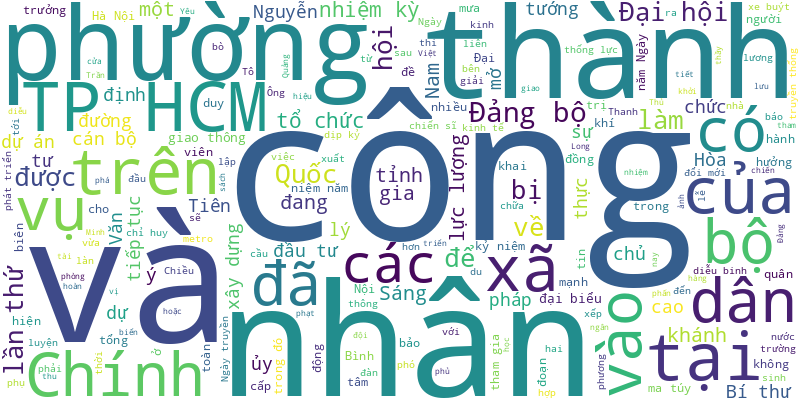
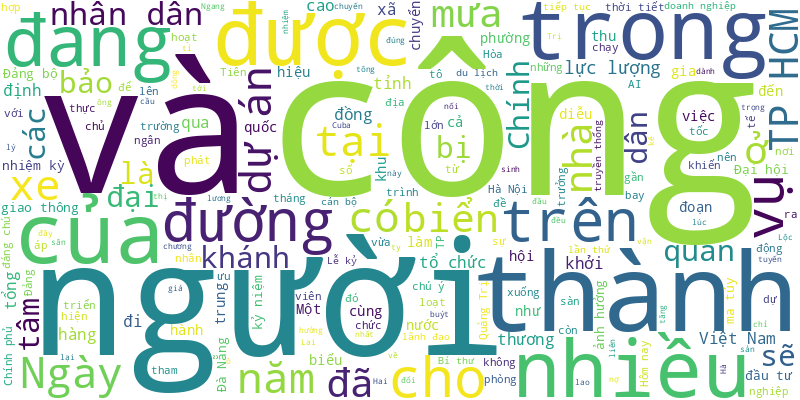
🍀 = 10%

diff --git a/README.md b/README.md
@@ -1,6 +1,10 @@
 # Tuoi Tre RSS 
 
 ## Giáo dục 
+- Sau gần 2 tháng vận hành bộ máy chính quyền 2 cấp ở các xã - phường, trước việc một số người dân gặp khó khăn khi sử dụng thiết bị để làm thủ tục hành chính, TP Đà Nẵng đã điều động 105 sinh viên ngành công nghệ thông tin lên đường.
+- Năm 2024, tân sinh viên Nguyễn Ngọc Như Uyên đã nhận được suất học bổng đặc biệt “Tiếp sức đến trường” do báo Tuổi Trẻ trao tặng, giúp cô hoàn tất học phí học kỳ I. Tuy nhiên, đến kỳ hạn đóng học phí học kỳ II, gia đình cô vẫn không có tiền.
+- Làm gì để ngăn những vụ việc đau lòng như trường hợp bé 14 tháng tuổi bị bảo mẫu ném xuống sàn tử vong do chấn thương sọ não?
+- Hàn Quốc có thể thu hơn 100 tỉ USD nếu thêm 1 triệu sinh viên quốc tế tốt nghiệp đại học, theo nghiên cứu KCCI và giáo sư Kim Duk Pa.
 - Trường đại học Công Thương TP.HCM ghi nhận số nguyện vọng đăng ký xét tuyển cao kỷ lục, với hơn 178.000.
 - Có '2 sẵn sàng' cho học sinh và '2 sẵn sàng' cho phụ huynh. Chuyên gia cho rằng khi đáp ứng đủ '4 sẵn sàng' này là thời điểm thích hợp cho con du học.
 - Thầy hiệu trưởng Trường tiểu học Chính Nghĩa, phường Chợ Lớn (quận 5 cũ), TP.HCM đã trực tiếp nói chuyện với phụ huynh lớp 1 trong cuộc họp đầu năm.
@@ -47,12 +51,40 @@
 - Thường trực Ủy ban Văn hóa - Xã hội đề nghị Bộ Giáo dục và Đào tạo nghiên cứu theo hướng có bộ sách giáo khoa dùng chung.
 - Câu trả lời đơn giản là vì có rác! Nhưng tại sao lại có rác?
 - Đây là một trong nhiều đề xuất đi kèm giải pháp góp phần hiện thực các chỉ tiêu phát triển bảo hiểm xã hội, bảo hiểm y tế vừa được Bảo hiểm xã hội TP.HCM trình Thành ủy và UBND TP.HCM.
-- Hôm nay 13 -8, Bộ Giáo dục và Đào tạo sẽ phối hợp các cơ sở đào tạo rà soát cơ sở dữ liệu trên hệ thống xét tuyển, chuẩn bị khởi động quy trình lọc ảo xét tuyển đại học năm 2025.
-- Năm học mới 2025-2026 học sinh tiếp tục dùng sách giáo khoa hiện hành, từ năm học 2026-2027 sách sẽ được chỉnh sửa để phù hợp với việc thay đổi địa giới hành chính.
-- Từ vốn đầu tư hàng chục tỉ đồng của Nhà nước, nhiều năm qua Trường tiểu học, Trường phổ thông dân tộc bán trú THCS Pù Nhi, xã biên giới Pù Nhi (Thanh Hóa) được xây dựng nhiều công trình phục vụ dạy học. Hai trường này sẵn sàng bước vào năm học mới.
-- Theo quyết định mới nhất của Thủ tướng Chính phủ, hai đại học quốc gia nằm trong số các đơn vị sự nghiệp công lập trực thuộc Bộ Giáo dục và Đào tạo.
 ![Edu](Edu.png)
 ## Thời Sự 
+- Báo cáo từ Charoen Pokphand Foods - công ty mẹ của C.P. Việt Nam - cho thấy doanh thu của "ông lớn" này tại thị trường Việt Nam quý 2 và lũy kế 6 tháng đầu năm nay.
+- Một số tin tức đáng chú ý: Lộc Trời đề cử nhân sự ban kiểm soát, có người từ Bamboo Capital; TP.HCM tăng chuyến 7 tuyến xe buýt từ hôm nay, 18-8.
+- Hôm nay 18-8, cả đất liền lẫn Biển Đông đều mưa dông, thời tiết xấu ảnh hưởng tới mọi hoạt động, sinh hoạt, đi lại của người dân.
+- 130 công nhân Công ty TNHH Phúc Thịnh tại Khu công nghiệp Nhơn Hòa (Gia Lai) bị nợ lương, nợ bảo hiểm xã hội nhiều tháng liên tiếp, còn giám đốc doanh nghiệp đi đâu không rõ.
+- Lãnh đạo TP Đà Nẵng muốn THACO tham gia nghiên cứu, đầu tư dự án đường sắt đô thị nối sân bay Đà Nẵng - Hội An - sân bay Chu Lai.
+- Xe hơi biển số TP.HCM mất lái lao lên vỉa hè, tông gãy trụ camera giao thông ở trung tâm Nha Trang (tỉnh Khánh Hòa).
+- Công an TP Hà Nội ra mắt 4 sản phẩm chuyển đổi số phục vụ nhân dân và nhiệm vụ công tác chuyên môn, trong đó đáng chú ý là tổng đài viên AI (1900 0113) và chatbot AI.
+- Đến 18h ngày 17-8, chương trình vận động ủng hộ nhân dân Cuba "65 năm nghĩa tình Việt Nam - Cuba" của Hội Chữ thập đỏ Việt Nam đã vượt mốc 310,9 tỉ đồng.
+- Một cây phượng đại thụ bất ngờ bật gốc rồi đổ sập xuống ngang đường đúng lúc có nhiều xe máy đi qua. May mắn, 4 người gần nhất đã thoát nạn trong gang tấc.
+- Giá vé tham quan di sản Huế 200 ngàn đồng/người được nhiều bạn đọc quan tâm, tranh luận.
+- Nhiều tiểu thương ở các sàn thương mại điện tử đang xoay trục, tập trung tối ưu lợi nhuận trên từng đơn, bán ít nhưng lãi chắc, giảm áp lực khi sàn tăng phí cao.
+- Hơn 650 tàu thuyền của Đà Nẵng đang còn trên biển, trong đó có 130 tàu với 961 ngư dân khu vực biển Hoàng Sa nơi đang có áp thấp nhiệt đới.
+- Lực lượng cảnh sát giao thông TP.HCM vừa ngăn chặn, bắt giữ nhóm thanh thiếu niên chạy xe tốc độ cao, nẹt pô, lạng lách trên đường.
+- Ngày 19-8 tại 34 tỉnh, thành sẽ đồng loạt khởi công, khánh thành 250 dự án với tổng mức đầu tư 1,28 triệu tỉ đồng.
+- Thầy hiệu trưởng, người nuôi gà lôi được tại ngoại; Đề xuất chuyển chuyến bay quốc tế về Long Thành... là những vấn đề được bạn đọc quan tâm.
+- Sẽ có thêm gần 500 cán bộ ở Quảng Trị được bố trí nhà công vụ khi 265 phòng ở bốn dãy nhà công vụ được thiết kế như khách sạn sắp hoàn thành.
+- Sáng 17-8, xã Hồ Tràm đã tổ chức Đại hội đại biểu lần 1, nhiệm kỳ 2025 - 2030.
+- Dịp 19-8 và 2-9, nhiều tỉnh, thành miền Trung sẽ khởi công, khánh thành hàng loạt dự án trọng điểm có ảnh hưởng lớn đến sự phát triển của cả vùng.
+- Giữa trưa 17-8, người dân phát hiện lửa bùng lên trong căn nhà ở xã Ninh Sơn (tỉnh Khánh Hòa) nên gọi lực lượng chức năng. Tuy nhiên ngọn lửa đã lan nhanh khiến một người phụ nữ đang ở trong nhà thiệt mạng.
+- Đảng bộ phường Nhiêu Lộc xác định du lịch đường thủy, phố ẩm thực và kinh tế ven kênh sẽ trở thành thương hiệu đặc trưng của phường.
+- Cộng đồng doanh nghiệp, người dân đang chung tay góp sức cùng chính quyền địa phương để chuyển đổi xanh Phú Quốc.
+- Làm gì để ngăn những vụ việc đau lòng như trường hợp bé 14 tháng tuổi bị bảo mẫu ném xuống sàn tử vong do chấn thương sọ não?
+- Tổng Bí thư Tô Lâm đã thay mặt lãnh đạo Đảng và Nhà nước gắn Huân chương Sao vàng lên cờ truyền thống của lực lượng Công an nhân dân.
+- Trong lúc chèo sup tắm biển ở khu vực xã Tiên Hải (hay gọi đảo Hải Tặc, An Giang) và gặp phải sóng lớn nên chiếc sup bị đánh lật.
+- Bài phát biểu của Tổng Bí thư tại Lễ kỷ niệm 80 năm Ngày truyền thống Công an nhân dân, 20 năm Ngày hội toàn dân bảo vệ an ninh Tổ quốc.
+- Dự tiệc cưới vì ai, vì điều gì không chỉ là mối quan tâm của nhiều người, mà đây còn là câu hỏi luôn thu hút nhiều tranh luận sôi nổi.
+- Du lịch công nghiệp đang mở ra hướng đi mới cho TP.HCM, với chìa khóa là sự kết nối giữa các khu công nghiệp và doanh nghiệp lữ hành.
+- Tuần này thời tiết mưa dông chiếm ưu thế, mưa kéo dài cả tuần, nhiều nơi mưa to đến rất to.
+- Những công đoạn cuối cùng trên tuyến chính cao tốc dài 11,5km qua Đà Nẵng đang chạy nước rút chuẩn bị cho việc thông xe.
+- Lễ kỷ niệm được tổ chức nhằm ôn lại chặng đường vẻ vang 80 năm xây dựng, chiến đấu, trưởng thành của lực lượng Công an nhân dân.
+- Sáng 17-8, lãnh đạo Đảng, Nhà nước vào Lăng viếng Chủ tịch Hồ Chí Minh, nhân kỷ niệm 80 năm Ngày truyền thống Công an nhân dân.
+- Việc có làn đường dành riêng cho xe buýt là chủ trương đúng và cần làm, nhưng cần triển khai sao cho hợp lý và hiệu quả.
 - Tin tức đáng chú ý: TP.HCM đo thân nhiệt tại cửa khẩu 24/7 phòng bệnh Chikungunya; Yêu cầu hàng chục ngân hàng phong tỏa tài khoản đại gia thép một thời...
 - Hôm nay 17-8, thời tiết cả nước tiếp tục duy trì mưa to, nhiều nơi mưa rất to, trên biển do ảnh hưởng áp thấp nên mưa gió mạnh, sóng cao.
 - Cán bộ, công chức, viên chức, người lao động hưởng lương ngân sách bị ảnh hưởng do sắp xếp đơn vị hành chính vẫn được bảo lưu hoặc tiếp tục hưởng phụ cấp nếu tiếp tục làm việc trong hệ thống chính trị.
@@ -71,38 +103,6 @@
 - Sáng 16-8, khoảng 16.000 cán bộ, chiến sĩ quân đội, công an đã tham gia buổi tổng hợp luyện diễu binh phục vụ 80 năm Quốc khánh (A80) tại Trung tâm Huấn luyện quân sự quốc gia 4 (Hà Nội).
 - Bé gái bị bỏ lại phía ngoài một ngôi chùa tại Hưng Yên. Bên cạnh bé là lá thư có lời nhắn 'Mong thầy không giao bất kỳ ai, con tin tưởng nhà chùa'.
 - Nhiều bạn đọc quan tâm tới đề xuất mở làn riêng cho xe buýt tại TP.HCM, nêu các ý kiến về tính khả thi, hiệu quả và cách triển khai phù hợp.
-- Phường Long Bình phải thực sự là kiểu mẫu về kết nối nội thị và liên vùng, đóng góp vào nhiệm vụ đầu mối logistics chiến lược.
-- Lực lượng chức năng vừa tìm thấy thi thể nam công nhân mất tích khi bơi trên sông Ba (phường Tuy Hòa, Đắk Lắk) để vào bờ trước đó 1 ngày.
-- Quốc hội sẽ tiếp tục đổi mới toàn diện hoạt động, đổi mới tư duy xây dựng pháp luật và tới đây tổ chức diễn đàn về xây dựng pháp luật.
-- Chủ đàn bò để một con bò đi lạc vào hầm sông Sài Gòn chiều 15-8 bị cảnh sát giao thông lập biên bản xử phạt.
-- Tuổi Trẻ Online gửi đến bạn đọc toàn văn bài viết của Đại tướng, Tổng Bí thư Tô Lâm nhân dịp kỷ niệm 80 năm Ngày truyền thống lực lượng Công an nhân dân.
-- Mạng xã hội xuất hiện thông tin đàn bò tót lai đang được nuôi dưỡng ở Vườn quốc gia Núi Chúa - Phước Bình (tỉnh Khánh Hòa) bị 'gầy còm, ốm yếu'.
-- Sau hai ngày làm việc, Đại hội Đảng bộ phường Đức Nhuận (TP.HCM) lần thứ I đã thành công tốt đẹp, đề ra phương hướng phát triển trong giai đoạn mới.
-- Sáng 16-8, Chủ tịch Quốc hội Trần Thanh Mẫn dự lễ khánh thành công trình Nhà tưởng niệm Chủ tịch Tôn Đức Thắng tại Tuyên Quang.
-- Một nam công nhân đang thi công sửa chữa hầm cống tại phường Tuy Hòa (tỉnh Đắk Lắk) thì tử vong, nghi do ngạt khí.
-- Phường Bình Phú (TP.HCM) tiếp tục đeo bám giải quyết các dự án tồn đọng, trong đó có dự án khu III - Nam Lý Chiêu Hoàng 'treo' 20 năm.
-- Ngày 16-8, tại Đại hội đại biểu Đảng bộ phường Tân Hải lần thứ I (nhiệm kỳ 2025-2030), ông Võ Văn Minh, phó bí thư Thành ủy, chủ tịch HĐND TP.HCM, yêu cầu nghiên cứu làm metro, giảm phụ thuộc vào quốc lộ 51.
-- Sáng 16-8, Đảng bộ xã Thái Mỹ tổ chức Đại hội đại biểu lần thứ I, nhiệm kỳ 2025 - 2030.
-- Để thúc đẩy phát triển kinh tế tư nhân, tỉnh Khánh Hòa lập kế hoạch trong đó nhấn mạnh đổi mới tư duy, cải thiện môi trường đầu tư kinh doanh, đồng thời xử lý nghiêm hành vi tham nhũng của cán bộ, công chức.
-- Ông Nguyễn Phước Lộc gợi mở xã Hòa Hội cần phát triển kinh tế bền vững, kinh tế xanh kết hợp khai thác lợi thế du lịch sinh thái.
-- Mưa lớn kéo dài khiến mực nước dâng cao làm hai bên mố cầu dân sinh ở Đồng Nai sụt lún, giao thông của người dân bị chia cắt.
-- Sáng 16-8, Bộ Công an tổ chức lễ khánh thành trụ sở Bộ Công an tại số 96 Nguyễn Du, phường Cửa Nam, thành phố Hà Nội.
-- Phó bí thư thường trực Thành ủy TP.HCM Nguyễn Thanh Nghị đề nghị phường An Lạc khai thác lợi thế hạ tầng giao thông kết nối liên vùng, tận dụng vị trí chiến lược để thu hút đầu tư.
-- Học sinh, phụ huynh và giáo viên ở các xã biên giới Quảng Ngãi đang háo hức trước thông tin tỉnh đề xuất đầu tư 775 tỉ đồng xây dựng 5 trường phổ thông nội trú liên cấp.
-- Bước vào nhiệm kỳ đầu tiên sau khi sáp nhập, Đảng bộ phường Gia Định (TP.HCM) đặt ra nhiều giải pháp quản lý tốt hơn để phát triển kinh tế - xã hội.
-- Thủ tướng lưu ý việc xây dựng nhà ở xã hội phải đa dạng phân khúc, đa đạng hình thức mua, thuê mua; đảm bảo các hạ tầng thiết yếu về giao thông.
-- Công tác sửa chữa khe co giãn trên tuyến vành đai 3 (Hà Nội) đoạn trên cao từ Pháp Vân đến Nguyễn Trãi - Khuất Duy Tiến và ngược lại đã hoàn thành.
-- Sáng 16-8, Đảng bộ phường Đức Nhuận (TP.HCM) tổ chức Đại hội đại biểu lần thứ I, nhiệm kỳ 2025-2030.
-- Các tổ công tác của Công an Đà Nẵng đã truy tìm và phát hiện nạn nhân của vụ 'bắt cóc online' đang chat với một đối tượng bên Campuchia.
-- Nhân dịp kỷ niệm 80 năm Ngày truyền thống lực lượng Công an nhân dân Việt Nam, phu nhân Tổng Bí thư Tô Lâm, bà Ngô Phương Ly, đã có chuyến thăm đầy xúc động và ý nghĩa tới tỉnh Sơn La ngày 15-8.
-- Cơ chế đã mở, làm thế nào để khu vực tư nhân thực sự tham gia; và đưa các chủ trương, đường lối của Đảng, chính sách của Nhà nước thành hiện thực?
-- Một chi tiết 'nhỏ mà có võ' được trang bị giúp những khí tài hạng nặng di chuyển nhịp nhàng trên đường nhựa: guốc xích cao su.
-- Dự báo năm nay không khí lạnh hoạt động sớm, mạnh dần từ khoảng tháng 10-2025 và gia tăng mạnh từ tháng 11.
-- Sáng 16-8, Công an xã Tràm Chim, tỉnh Đồng Tháp đã có báo cáo nhanh vụ cháy chợ thực phẩm Tam Nông xảy ra vào tối 15-8 làm thiệt hại 31 ki ốt. Có hơn 230 cán bộ chiến sĩ và người dân tham gia chữa cháy.
-- Bộ Nội vụ hướng dẫn gỡ vướng về tuyển dụng, xếp ngạch công chức, xếp lương với chỉ huy trưởng, phó chỉ huy trưởng, trợ lý ban chỉ huy quân sự cấp xã.
-- TP.HCM đang lấy ý kiến dự thảo quy định mới về quản lý xe buýt, trong đó có nội dung mở làn ưu tiên hoặc làn riêng cho xe buýt.
-- Ngày 15-8, báo Tuổi Trẻ tổ chức hội thảo về giải pháp kiểm soát ô nhiễm không khí đô thị, với sự tham dự của lãnh đạo sở ngành và chuyên gia.
-- Toàn văn bài viết của Đại tướng Lương Tam Quang - ủy viên Bộ Chính trị, bộ trưởng Bộ Công an, nhân dịp kỷ niệm 80 năm Ngày truyền thống lực lượng Công an nhân dân.
 ![New](News.png)
 ## Nhịp sống số 
 - Chỉ bằng vài câu lệnh, AI đã có thể dựng nên những khung hình sống động, từ bối cảnh, ánh sáng đến từng chuyển động nhỏ... Nó làm điều đó thế nào?
